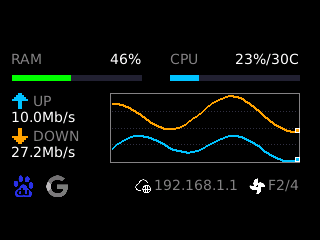
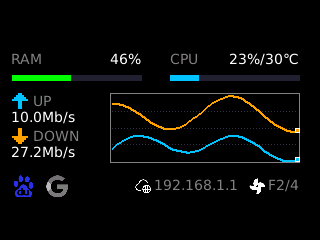
Use ℃ symbol for CPU temperature

Changed region(s): [[0.7188, 0.2042, 0.9375, 0.2917]]

diff --git a/screen/dashboard.go b/screen/dashboard.go
@@ -81,7 +81,7 @@ func DrawDashboard(p *Pixmap, d *DashboardData) {
 	p.DrawText(170, barY, "CPU", 2, colDim)
 	cpuPct := sprintfPct(d.CPUFrac)
 	if d.CPUTemp > 0 {
-		cpuPct += fmt.Sprintf("/%.0fC", d.CPUTemp)
+		cpuPct += fmt.Sprintf("/%.0f℃", d.CPUTemp)
 	}
 	p.DrawText(170+130-TextWidth(cpuPct, 2), barY, cpuPct, 2, colFg)
 	p.DrawBar(170, barY+14+labelBarGap, 130, barH, d.CPUFrac, colUp, colBarBg, colDim, false)
